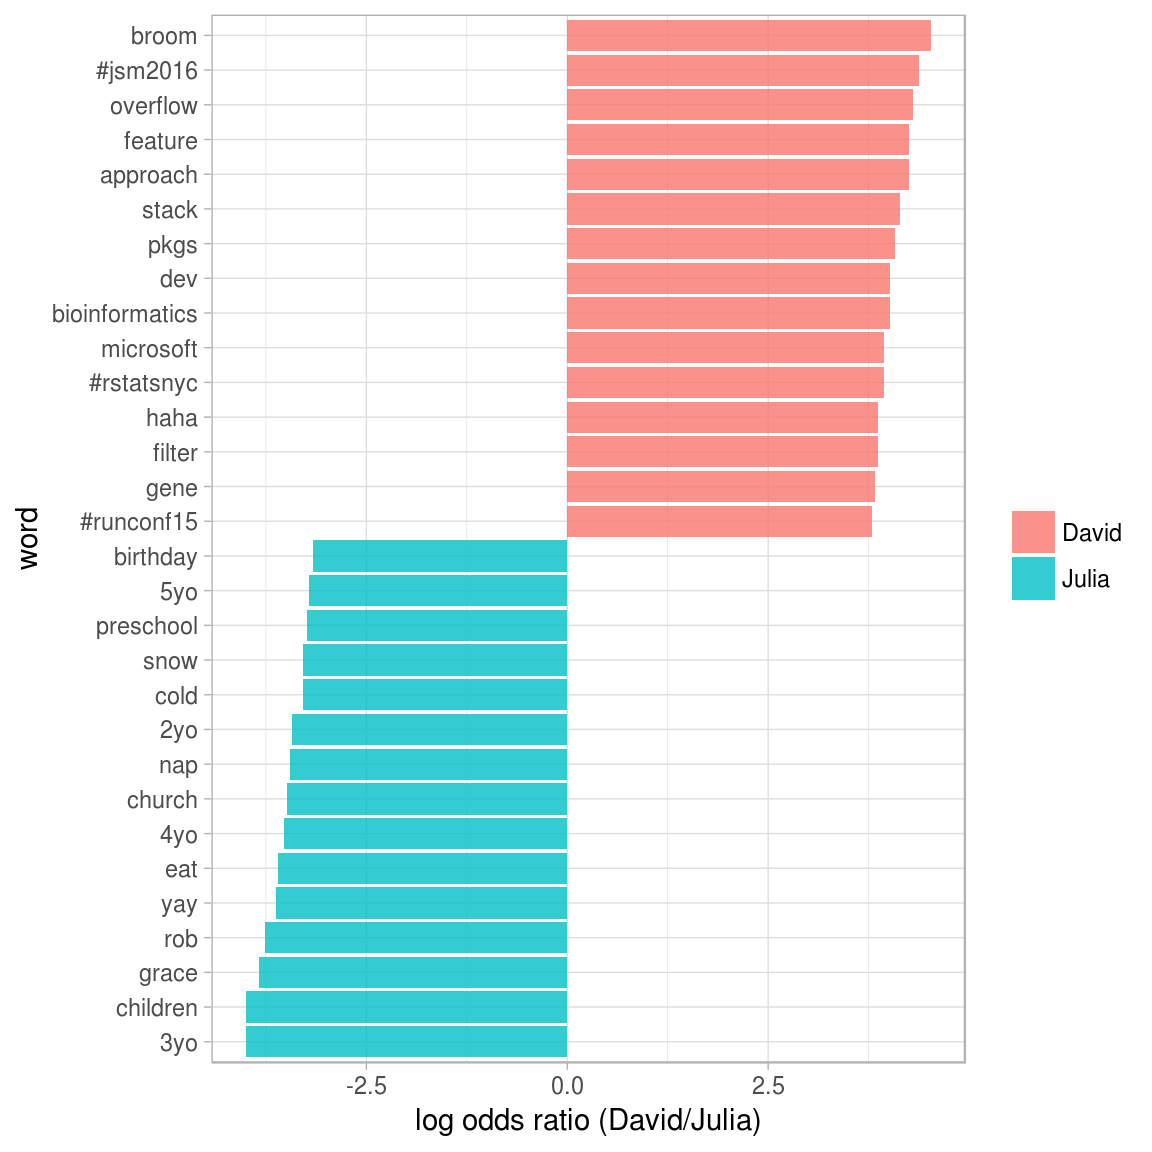
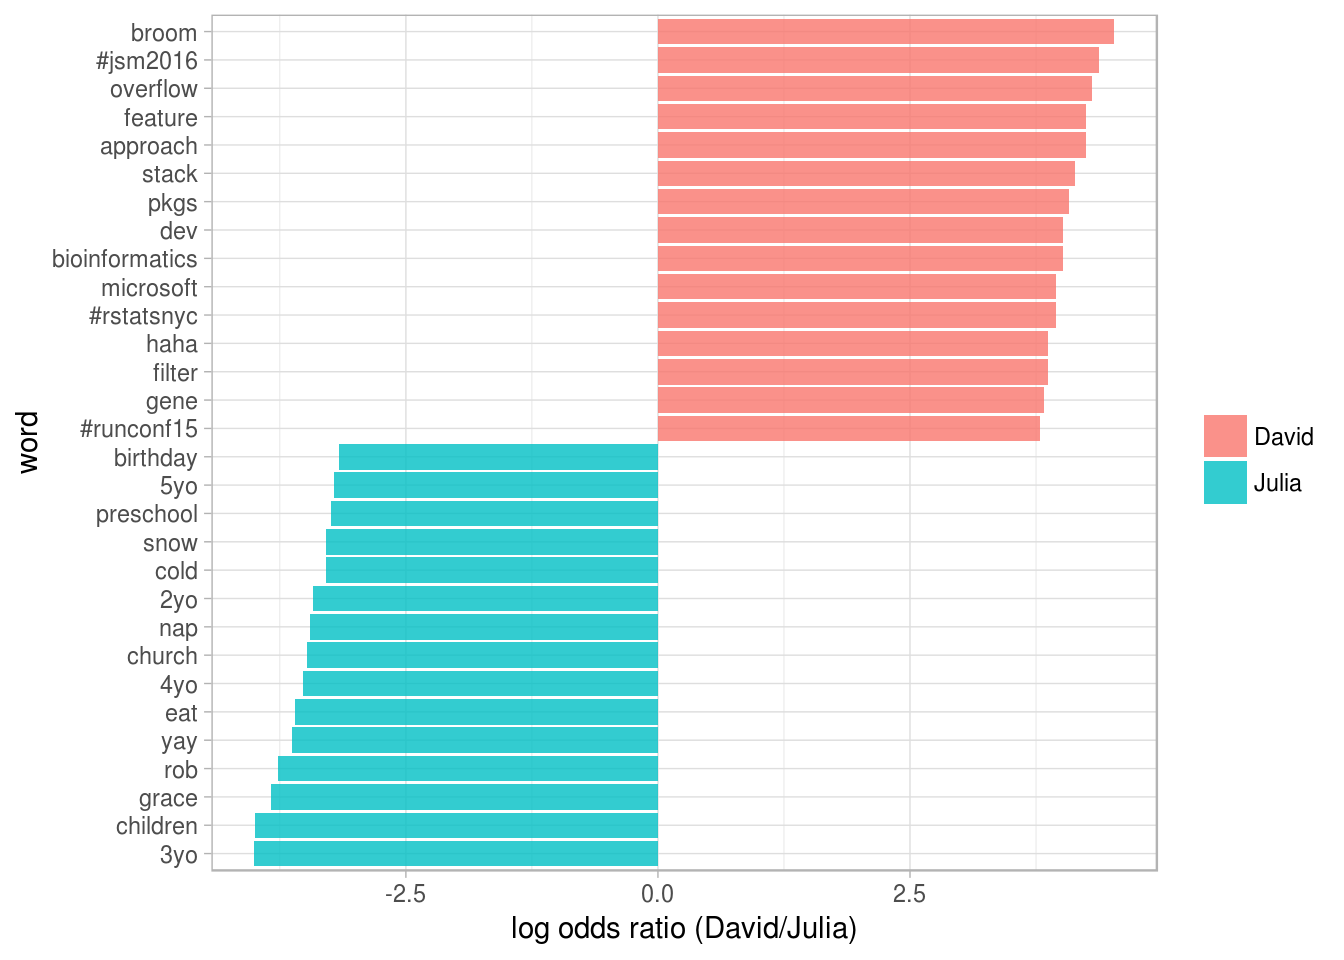
Updating book (147)

Changed region(s): [[0.0312, 0.0, 0.875, 1.0], [0.875, 0.4062, 1.0, 0.5312], [0.0, 0.4375, 0.0312, 0.5]]

diff --git a/twitter.html b/twitter.html
@@ -312,6 +312,7 @@ frequency</code></pre></div>
 <div id="comparing-word-usage" class="section level2">
 <h2><span class="header-section-number">8.3</span> Comparing word usage</h2>
 <p>We just made a plot comparing raw word frequencies, but now let’s find which words are more or less likely to come from each person’s account using the log odds ratio. First, let’s use <code>str_detect</code> to remove Twitter usernames from the <code>word</code> column, because otherwise, the results here are dominated only by people who Julia or David know and the other does not. After removing these, we count how many times each person uses each word and keep only the words used more than 5 times. After a <code>spread</code> operation, we can calculate the log odds ratio for each word, using</p>
+<p><span class="math display">\[\text{log odds ratio} = \ln{\left(\frac{\left[\frac{n+1}{\text{total}+1}\right]_\text{David}}{\left[\frac{n+1}{\text{total}+1}\right]_\text{Julia}}\right)}\]</span></p>
 <p>where <span class="math inline">\(n\)</span> is the number of times the word in question is used by each person and the total indicates the total words for each person.</p>
 <div class="sourceCode"><pre class="sourceCode r"><code class="sourceCode r"><span class="kw">library</span>(tidyr)
 word_ratios &lt;-<span class="st"> </span>tidy_tweets %&gt;%
@@ -351,7 +352,7 @@ word_ratios &lt;-<span class="st"> </span>tidy_tweets %&gt;%
 <span class="st">  </span><span class="kw">coord_flip</span>() +
 <span class="st">  </span><span class="kw">ylab</span>(<span class="st">&quot;log odds ratio (David/Julia)&quot;</span>) +
 <span class="st">  </span><span class="kw">scale_fill_discrete</span>(<span class="dt">name =</span> <span class="st">&quot;&quot;</span>, <span class="dt">labels =</span> <span class="kw">c</span>(<span class="st">&quot;David&quot;</span>, <span class="st">&quot;Julia&quot;</span>))</code></pre></div>
-<p><img src="08-tweet-archives_files/figure-html/plotratios-1.png" width="576" /></p>
+<p><img src="08-tweet-archives_files/figure-html/plotratios-1.png" width="672" /></p>
 <p>So David has tweeted about bioinformatics and Stack Overflow while Julia has been tweeting about preschool, naps, and the snow.</p>
 </div>
 <div id="sentiment-analysis" class="section level2">

diff --git a/08-tweet-archives.md b/08-tweet-archives.md
@@ -139,7 +139,7 @@ This may not even need to be pointed out, but David and Julia have used their Tw
 We just made a plot comparing raw word frequencies, but now let's find which words are more or less likely to come from each person's account using the log odds ratio. First, let's use `str_detect` to remove Twitter usernames from the `word` column, because otherwise, the results here are dominated only by people who Julia or David know and the other does not. After removing these, we count how many times each person uses each word and keep only the words used more than 5 times. After a `spread` operation, we can calculate the log odds ratio for each word, using
 
 
-
+$$\text{log odds ratio} = \ln{\left(\frac{\left[\frac{n+1}{\text{total}+1}\right]_\text{David}}{\left[\frac{n+1}{\text{total}+1}\right]_\text{Julia}}\right)}$$
 
 where $n$ is the number of times the word in question is used by each person and the total indicates the total words for each person.
 
@@ -198,7 +198,7 @@ word_ratios %>%
   scale_fill_discrete(name = "", labels = c("David", "Julia"))
 ```
 
-<img src="08-tweet-archives_files/figure-html/plotratios-1.png" width="576" />
+<img src="08-tweet-archives_files/figure-html/plotratios-1.png" width="672" />
 
 So David has tweeted about bioinformatics and Stack Overflow while Julia has been tweeting about preschool, naps, and the snow.
 
